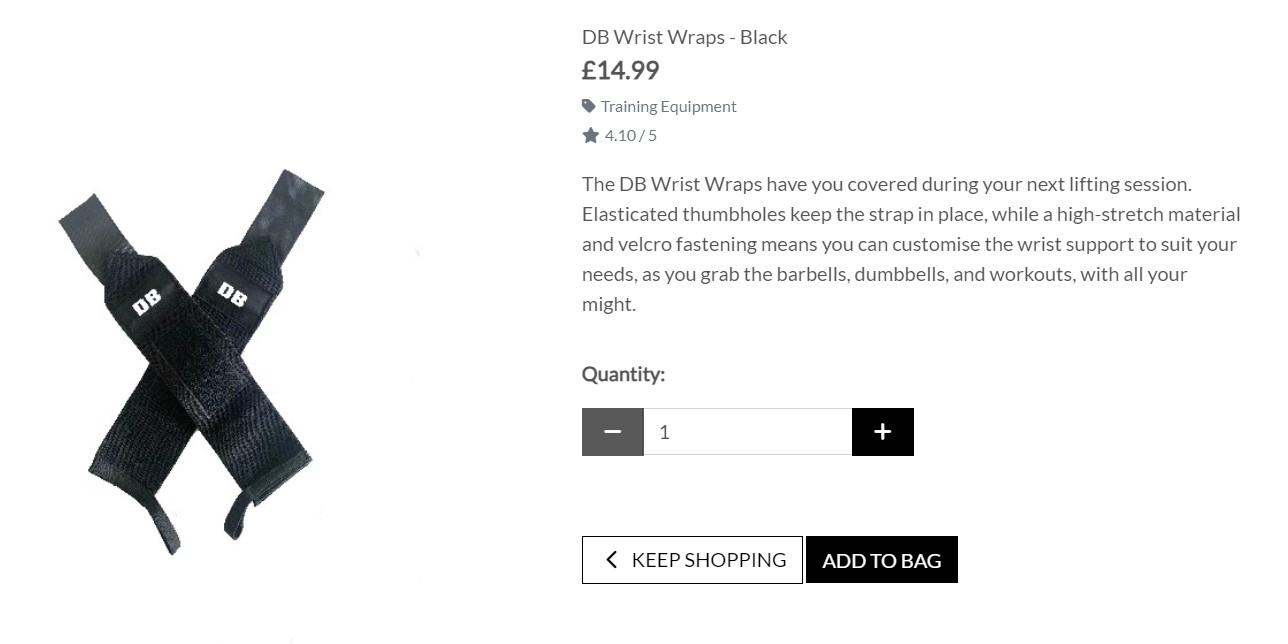
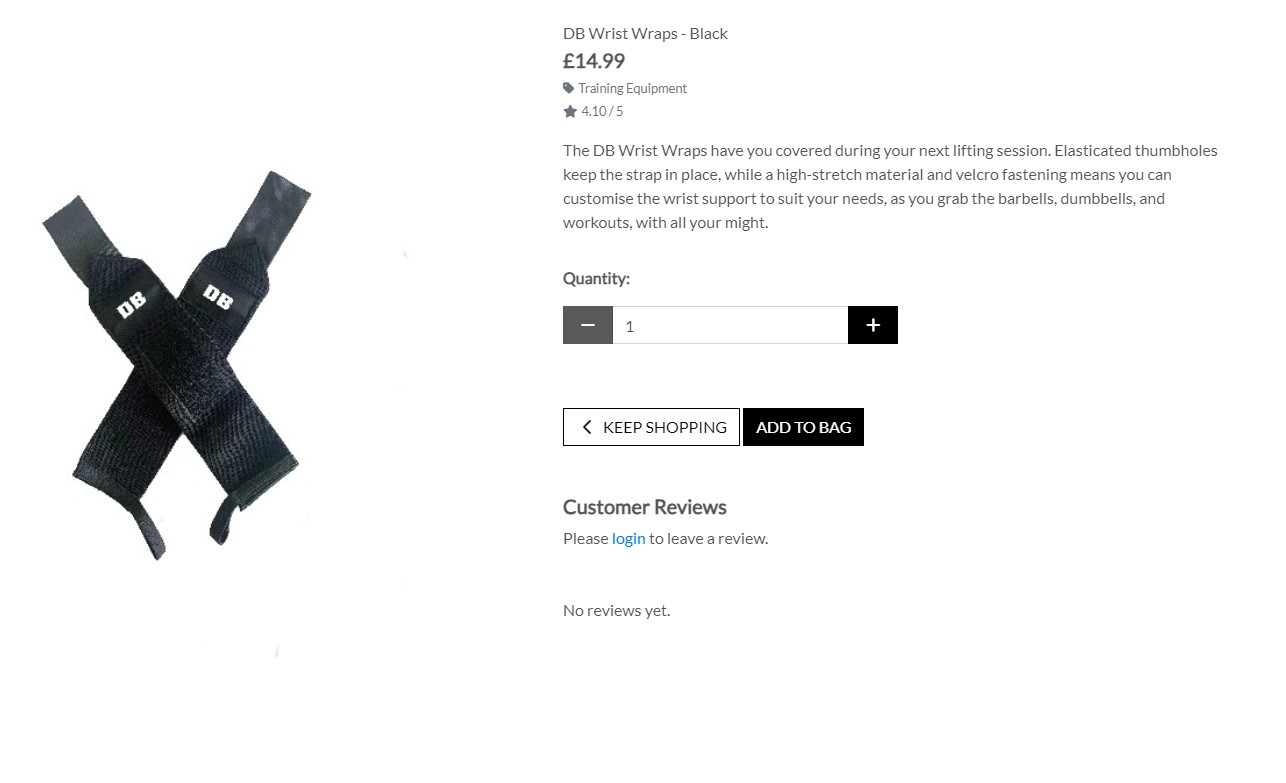
Updated about us and products section under features

diff --git a/README.md b/README.md
@@ -418,7 +418,12 @@ Multiple apps and classes/models were created for the project, each one supporti
 
 * On arrival to the About Us page, a counter begins to run with the current clients total. 
 
-* There is a brief description on brand's values and its hopes for any future clients - while also offering highend gym clothing. 
+* There is a brief description on brand's values and its hopes for any future clients - while also offering highend gym clothing.
+
+* There is paragraph stating the brand's charity endeavours, and a link that will take you to the charity that is supported. 
+
+![Screenshot of about us page charity](./readme_assets/img/about-charity-link.jpg) <br>
+    *Gif of about us page*
 
 * There is also a "Join Today!" button, directing the site user to the Plans page
 
@@ -471,6 +476,21 @@ Multiple apps and classes/models were created for the project, each one supporti
 
     ![Screenshot of back to top button](./readme_assets/img/products-backtotop.jpg)<br>
     *Screenshot of back to top button*
+
+* There is an option for users to leave a review on products, once they are logged in.
+
+    ![Screenshot of product reviews 1](./readme_assets/img/product-customer-review-1.jpg) ![Screenshot of product reviews 2](./readme_assets/img/product-customer-review-2.jpg)<br>
+    *Screenshot of back to product reviews*
+    
+* Once logged in the user can leave a 1 to 5 rating along with a comment on the product.
+
+    ![Screenshot of product reviews form](./readme_assets/img/product-customer-review-3.jpg)<br>
+    *Screenshot of back to product reviews form*
+
+* When the user clicks submit, all reviews will be listed out. 
+
+    ![Screenshot of product reviews list](./readme_assets/img/product-customer-review-4.jpg)<br>
+    *Screenshot of back to product reviews form*
 
 ### Plans
 
